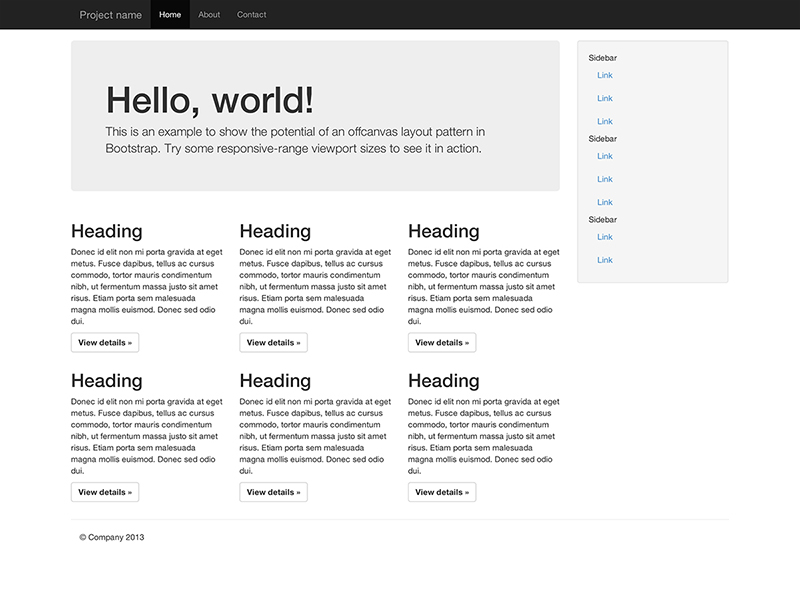
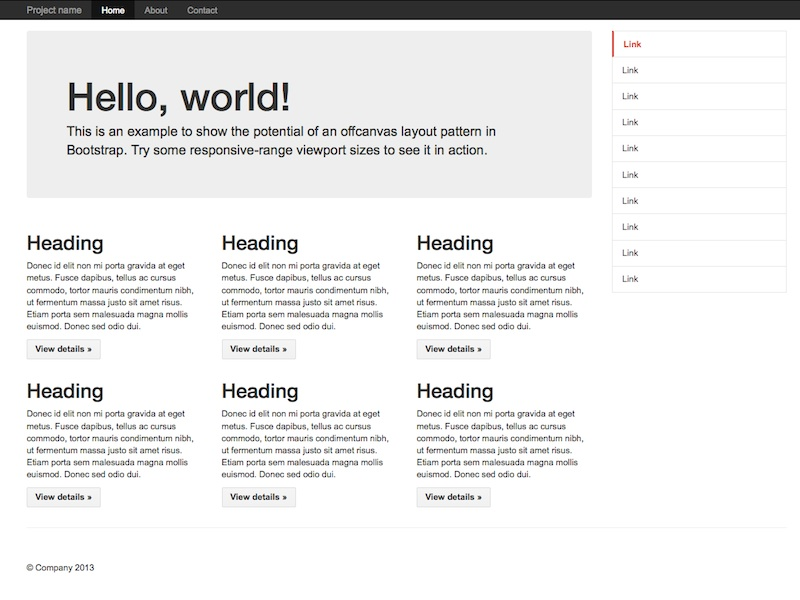
update the offcanvas example to support todc-bootstrap
#117

diff --git a/examples/offcanvas/index.html b/examples/offcanvas/index.html
@@ -8,10 +8,13 @@
     <meta name="author" content="">
     <link rel="shortcut icon" href="../../docs-assets/ico/favicon.png">
 
-    <title>Off Canvas Template for Bootstrap</title>
+    <title>Off Canvas Template for TODC Bootstrap</title>
 
     <!-- Bootstrap core CSS -->
     <link href="../../dist/css/bootstrap.min.css" rel="stylesheet">
+
+    <!-- TODC Bootstrap core CSS -->
+    <link href="../../dist/css/todc-bootstrap.css" rel="stylesheet">
 
     <!-- Custom styles for this template -->
     <link href="offcanvas.css" rel="stylesheet">
@@ -27,7 +30,7 @@
   </head>
 
   <body>
-    <div class="navbar navbar-fixed-top navbar-inverse" role="navigation">
+    <div class="navbar navbar-fixed-top navbar-default" role="navigation">
       <div class="container">
         <div class="navbar-header">
           <button type="button" class="navbar-toggle" data-toggle="collapse" data-target=".navbar-collapse">

diff --git a/examples/offcanvas/offcanvas.css b/examples/offcanvas/offcanvas.css
@@ -6,7 +6,7 @@ html {
   overflow-x: hidden; /* Prevent scroll on narrow devices */
 }
 body {
-  padding-top: 70px;
+  padding-top: 46px;
 }
 footer {
   padding: 30px 0;
